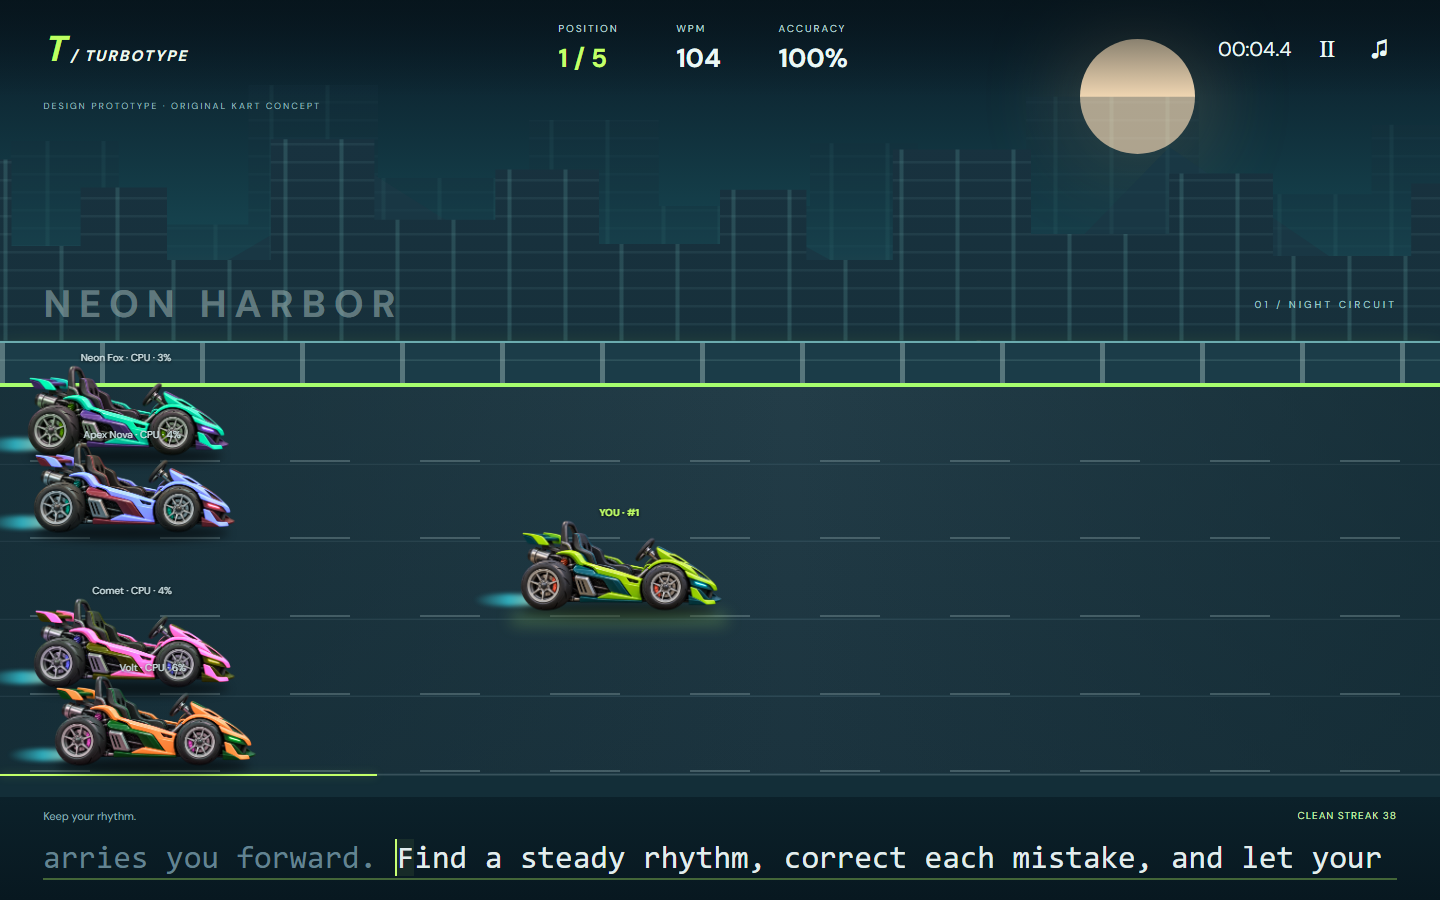
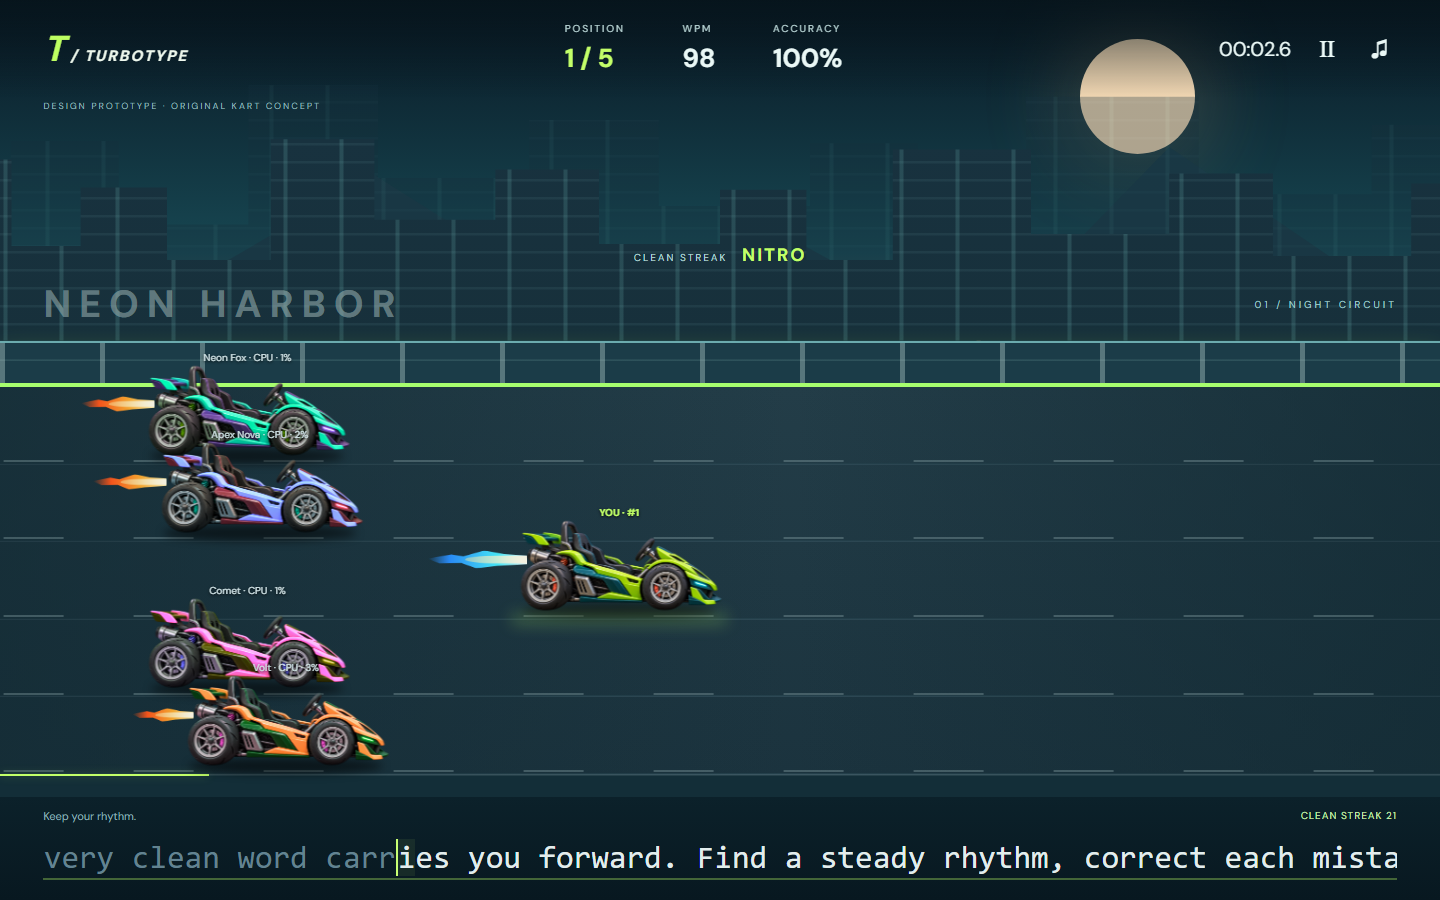
Animate kart exhaust and record the approved direction

diff --git a/docs/design/race-direction/preview.css b/docs/design/race-direction/preview.css
@@ -291,23 +291,72 @@ button {
 }
 .car .flame {
   position: absolute;
-  left: -18%;
-  bottom: 12%;
-  width: 33%;
-  height: 12%;
-  border-radius: 80%;
-  background: linear-gradient(90deg, transparent, #39e0f1, #eaffd9);
-  filter: blur(2px);
+  right: 93%;
+  top: 36%;
+  width: 36%;
+  height: 15%;
+  pointer-events: none;
+  background: linear-gradient(
+    90deg,
+    #f8511d00,
+    #ff571b 25%,
+    #ffae31 66%,
+    #fff3b0
+  );
+  clip-path: polygon(
+    0 45%,
+    24% 22%,
+    36% 33%,
+    57% 0,
+    77% 20%,
+    100% 28%,
+    100% 76%,
+    70% 86%,
+    49% 100%,
+    34% 70%,
+    12% 72%
+  );
+  transform-origin: right center;
   opacity: 0;
+  animation: exhaust-flicker 110ms steps(2, end) infinite paused;
 }
-.racing .car .flame {
-  opacity: 0.7;
+.car .flame::after {
+  content: "";
+  position: absolute;
+  inset: 30% 0 30% 38%;
+  background: linear-gradient(90deg, #ffef9c77, #fffceb);
+  border-radius: 70% 0 0 70%;
+}
+.car[data-moving="true"] .flame {
+  opacity: 0.95;
+  animation-play-state: running;
 }
 .nitro .car.player .flame {
-  width: 55%;
-  left: -42%;
-  height: 18%;
-  box-shadow: 0 0 20px #62eaf677;
+  width: 58%;
+  height: 20%;
+  top: 33%;
+  background: linear-gradient(
+    90deg,
+    #2b78ff00,
+    #2b90ff 22%,
+    #48efff 70%,
+    #f2ffff
+  );
+}
+@keyframes exhaust-flicker {
+  0%,
+  100% {
+    transform: scale(0.8, 0.85);
+  }
+  50% {
+    transform: scale(1.12, 1.08);
+  }
+}
+@media (prefers-reduced-motion: reduce) {
+  .car .flame {
+    display: none;
+    animation: none;
+  }
 }
 .car.player::after {
   content: "";

diff --git a/docs/design/race-direction/preview.js b/docs/design/race-direction/preview.js
@@ -15,6 +15,7 @@ let raf,
   disposed = false,
   ready = false,
   lastHudAt = -Infinity;
+const movement = new Map();
 const input = $("input"),
   music = $("music"),
   menu = $("menu"),
@@ -38,6 +39,8 @@ for (const [i, id] of ids.entries()) {
   label.className = "label";
   const flame = document.createElement("span");
   flame.className = "flame";
+  flame.style.animationDelay = `${-i * 37}ms`;
+  flame.setAttribute("aria-hidden", "true");
   const img = document.createElement("img");
   img.src = "./volt-kart-concept.png";
   img.alt = "";
@@ -64,6 +67,7 @@ function createRace() {
       return span;
     }),
   );
+  movement.clear();
   previousState = "";
   lastBurst = 0;
   ready = true;
@@ -128,6 +132,18 @@ function update() {
       (0.43 + Math.sign(gap) * 0.43 * (1 - Math.exp(-Math.abs(gap) * 7)));
     const car = $(`car-${id}`);
     car.style.left = `${Math.max(55, Math.min(width - 55, x))}px`;
+    const previous = movement.get(id);
+    const movedAt =
+      previous && row.progress > previous.progress
+        ? s.elapsedMs
+        : (previous?.movedAt ?? -Infinity);
+    movement.set(id, { progress: row.progress, movedAt });
+    car.dataset.moving = String(
+      s.state === "racing" &&
+        row.progress < 1 &&
+        s.elapsedMs - movedAt < 200 &&
+        (id !== "player" || s.errorCharacter === null),
+    );
     car.querySelector(".label").textContent =
       id === "player"
         ? `YOU · #${row.place}`

diff --git a/PROJECT_STATUS.md b/PROJECT_STATUS.md
@@ -6,9 +6,9 @@ Last reviewed: 21 October 2026. This file is the persistent status source for fu
 
 ## Current position
 
-**Phases 1–4: complete for their agreed scopes, with documented release-test exceptions. Phase 5: initial implementation automatically verified, but the user rejected its visual/interaction direction on 21 October. Required production race redesign remains TT-507–513. A separate playable TT-507 review prototype and one original AI-generated kart concept now exist; neither the visual direction nor replacement production race is accepted yet.** Current branch `feat/race-polish` starts from main `c4127c7` after merging verified Phase 4 PR #3. It adds three original modern sports-car bodies, the layered Neon Harbor circuit, progress-relative camera/edge indicators, bounded motion/finish effects, scrolling passage and original optional menu/race synth audio with saved controls. Implementation `cdd8e4a` is pushed in [PR #4](https://github.com/sahilshah2904/TurboType/pull/4); local checks and hosted Linux [run 39451394088](https://github.com/sahilshah2904/TurboType/actions/runs/39451394088) pass with 83 unit tests and 66 Chromium browser tests. PR #4 stays open for required visual/input rework and subsequent device acceptance; the 83/66 checks certify the initial implementation, not the planned redesign. The isolated software-renderer profile is documented, not a physical-device 60 fps certification.
+**Phases 1–4: complete for their agreed scopes, with documented release-test exceptions. Phase 5: initial implementation automatically verified, but the user rejected its visual/interaction direction on 21 October. Required production race redesign remains TT-507–513. The user accepted the separate full-window TT-507 kart design on 21 October. Animated moving-only exhaust has been added to that prototype. TT-507 direction review is complete; production integration, distinct fleet, physical-device verification and Phase 5 acceptance remain open.** Current branch `feat/race-polish` starts from main `c4127c7` after merging verified Phase 4 PR #3. It adds three original modern sports-car bodies, the layered Neon Harbor circuit, progress-relative camera/edge indicators, bounded motion/finish effects, scrolling passage and original optional menu/race synth audio with saved controls. Implementation `cdd8e4a` is pushed in [PR #4](https://github.com/sahilshah2904/TurboType/pull/4); local checks and hosted Linux [run 39451394088](https://github.com/sahilshah2904/TurboType/actions/runs/39451394088) pass with 83 unit tests and 66 Chromium browser tests. PR #4 stays open for required visual/input rework and subsequent device acceptance; the 83/66 checks certify the initial implementation, not the planned redesign. The isolated software-renderer profile is documented, not a physical-device 60 fps certification.
 
-First review the [desktop/phone kart prototype](docs/design/race-direction/README.md) under [the race redesign plan](docs/RACE_REDESIGN.md), then implement the accepted direction in the production Phaser race. The review prototype already demonstrates one visible native-input-backed strip and uses existing SoloRace rules; it does not replace the normal Race route. After that revision, rerun ASUS/Samsung visual, sound, keyboard and performance acceptance; the existing device checklist must be updated to match. Physical iPhone/tablet and missing environment metadata remain TT-1008. Cinematic opening/onboarding, campaign content, cloud progression and public deployment are later phases; no backend or Pages release exists.
+Implement the accepted [desktop/phone kart direction](docs/design/race-direction/README.md) in the production Phaser race under [the redesign plan](docs/RACE_REDESIGN.md). The review prototype already demonstrates one visible native-input-backed strip and uses existing SoloRace rules; it does not replace the normal Race route. After that revision, rerun ASUS/Samsung visual, sound, keyboard and performance acceptance; the existing device checklist must be updated to match. Physical iPhone/tablet and missing environment metadata remain TT-1008. Cinematic opening/onboarding, campaign content, cloud progression and public deployment are later phases; no backend or Pages release exists.
 
 “Design baseline complete” means all major systems have defined behavior and a delivery/verification plan. It does not mean every passage is authored, balancing is playtested, every technical detail is fixed, or any feature is implemented. Defaults may change through documented decisions when implementation exposes evidence.
 
@@ -67,6 +67,8 @@ Phases 2–10 may overlap where dependencies require it: for example, save setti
 - Reviewed user recordings 2–4 with overview/detail/quarter-second samples. User rejected the current boxed race, cars and duplicated passage/input. Required Phase 5 rework now includes a full-viewport race, one visible typing strip, a new vehicle-art pass, responsive keyboard-aware composition and staged visual review. See docs/RACE_REDESIGN.md and TT-507–513. This turn documents analysis/proposal only; no replacement gameplay or art is implemented. Phase 6 has not started.
 
 - Started TT-507 with an original lime/teal arcade-kart raster concept (built-in image_gen; prompt/provenance saved) and a separate playable full-viewport desktop/phone review prototype in docs/design/race-direction. It reuses SoloRace/strict input, has one visible typing strip, and offers local-file personal music after the user identified Misirlou. No song file was supplied/downloaded/committed; public game music remains original. Scripted desktop/phone composition, correction/pause/finish/retry and synthetic local-audio tests passed; screenshots are saved. Recolored CPU concepts, simulated phone keyboard and baked wheels are review placeholders. User visual review, real Samsung input, distinct fleet, production integration and actual song playback remain pending. TT-514 tracks local music integration.
+
+- User approved the TT-507 kart/full-window design and requested exhaust flames. Added bounded CSS orange flame flicker and larger blue nitro flame tied to per-car authoritative progress, with stall/error/pause/finish shutoff and system reduced-motion suppression. Updated prototype captures. Other production routes still use the earlier layout; TT-604 now explicitly tracks their coherent full-window redesign in Phase 6, with maps in Phase 7 and garage/progression in Phase 9. This approval does not close production integration or physical-device acceptance.
 
 ## Remaining design and production work
 

diff --git a/docs/RACE_REDESIGN.md b/docs/RACE_REDESIGN.md
@@ -1,6 +1,6 @@
 # Phase 5 race redesign — viewport, typing and vehicle direction
 
-Recorded: 21 October 2026. Status: required rework in progress after user rejection of the current visual result. A separate playable review prototype and one kart concept are available in [design/race-direction](design/race-direction/README.md); the production race has not been replaced or visually accepted. This revises the earlier Phase 5 composition, not the eleven-phase numbering. PR #4 remains open. Existing core rule/test evidence remains valid for its tested snapshot, but is not visual acceptance or verification of this proposed replacement.
+Recorded: 21 October 2026. Status: required rework in progress after user rejection of the current visual result. A separate playable review prototype and one kart concept are available in [design/race-direction](design/race-direction/README.md); the user accepted the prototype visual direction on 21 October, while the production replacement and physical-device acceptance remain outstanding. This revises the earlier Phase 5 composition, not the eleven-phase numbering. PR #4 remains open. Existing core rule/test evidence remains valid for its tested snapshot, but is not visual acceptance or verification of this proposed replacement.
 
 ## Why the current screen needs another pass
 
@@ -42,7 +42,7 @@ User steering: arcade-kart proportions inspired by Mario Kart, with original sil
 
 The existing three SVGs are a functional first pass and are not visually accepted. Create larger, clearly different original silhouettes: a low supercar, a winged track coupe and an aggressive performance hatch/coupe. Specify body proportion, glass, wheel alignment, layered shading, reflective highlights, headlights, rim/caliper detail, tire contact shadows and restrained suspension movement. Changing paint alone is insufficient.
 
-Recommend prerendered 2.5D vehicle sprites for the first redesign: original authored models or appropriately licensed original artwork, with separately aligned wheels, shadows, lights and exhaust. A model/render pipeline can provide consistent angles and lighting without adding a realtime 3D engine to this side-view game. Review one car at actual race size before creating the fleet. Record editable source, rights, export dimensions, wheel anchors and texture/memory budgets. Final asset pipeline and visual direction need a concrete mockup before production; no asset is selected or commissioned yet.
+Recommend prerendered 2.5D vehicle sprites for the first redesign: original authored models or appropriately licensed original artwork, with separately aligned wheels, shadows, lights and exhaust. A model/render pipeline can provide consistent angles and lighting without adding a realtime 3D engine to this side-view game. Review one car at actual race size before creating the fleet. Record editable source, rights, export dimensions, wheel anchors and texture/memory budgets. The first raster kart concept and composition have now been reviewed and approved (TT-507); the production asset pipeline, separate wheel exports and distinct fleet still need implementation.
 
 ### D. Improve race staging and motion
 
@@ -76,6 +76,22 @@ Existing Phase 5 work is retained where useful. No wholesale rewrite of the typi
 - Pure rules remain independent of rendering; shared pause, exact completion, CPU schedules and results survive integration checks.
 - Frame/typing responsiveness, source cleanup, texture budgets, sound balance and retries are verified with actual evidence. Existing 83/66 checks certify their old snapshot only; new checks/results must be recorded after redesign.
 - Final visuals are explicitly accepted before Phase 5 is closed and PR #4 merged. Passing automated tests alone cannot close a rejected design.
+
+## Other pages: coherent full-window direction
+
+These are planned changes, not revamped production pages. The standalone prototype does not change the existing hub, practice, keyboard check or settings.
+
+| Screen | Intended treatment | Phase/task |
+| --- | --- | --- |
+| Active race, pause and results | Edge-to-edge race, compact HUD, one typing strip; integrated pause/finish overlays | Phase 5, TT-508–513 |
+| Opening, welcome, rules and tutorial | Full-window cinematic identity and clear guided interactions | Phase 6, TT-601–604 |
+| Main hub | Animated garage/city environment with navigable activities and Continue | Phase 6, TT-602/604 |
+| Practice / keyboard check | Full-window setting, focused readable input area; practice reuses the integrated strip | Phase 6, TT-604 |
+| Settings / setup | Coherent game background with clearly grouped controls and accessible overlay/full-window navigation | Phase 6, TT-603/604 |
+| Campaign maps | Full-window horizontal landscapes with winding circular stages and no enclosing page card | Phase 7, TT-701–704 |
+| Garage / progress | Matching garage world, vehicle customization and readable learning/progress views | Phase 9 |
+
+Full-window does not mean filling every screen with text or removing useful form boundaries. Keep content readable, distinct control focus, zoom, reduced motion and compact phone layouts. Persistent world/background composition replaces the outer website-card structure. User approval of the race concept is the visual anchor, not proof these other pages are already implemented.
 
 ## Personal music steering
 

diff --git a/docs/design/race-direction/README.md b/docs/design/race-direction/README.md
@@ -1,6 +1,6 @@
 # Immersive kart race — review prototype
 
-Created 21 October 2026 for TT-507 (Phase 5 visual direction). **Review artifact, not the replacement production race.** The normal Race route and its previous Phaser art remain unchanged. The user has not accepted this concept yet.
+Created 21 October 2026 for TT-507 (Phase 5 visual direction). **Review artifact, not the replacement production race.** The normal Race route and its previous Phaser art remain unchanged. The user approved this car/full-window design on 21 October 2026. This accepts TT-507 direction; production integration and physical-device acceptance remain pending.
 
 ## Open and review
 
@@ -18,7 +18,7 @@ Desktop and phone captures are [desktop-preview.png](desktop-preview.png) and [p
 - Reuses src/core/solo-race.ts and src/ui/race-input.ts: one player, four seeded easy CPUs, shared countdown/clock, correction, metrics, pause and final outcomes. Seed 42, one original 145-character review passage; no records/rewards/progress saved.
 - HTML/CSS scenery and DOM vehicle placement are a lightweight direction study, not the final Phaser renderer. Horizontal gaps use a monotonic compressed projection; labels show exact CPU percent and the standings dialog shows authoritative rank/progress. It is not a physical-distance scale. No rubber-banding changes CPU schedules.
 - The new lime kart is one AI-generated raster concept. Other lanes reuse hue-shifted copies to test size/composition. They are **not** a completed distinct fleet. Wheels are baked into this concept; separate rotating wheel/body exports are future production work.
-- CSS skyline/track and simple exhaust demonstrate placement. Final camera, detailed scenery, finish line staging, low/reduced effects settings, polished audio and production integration remain TT-508–513. The prototype does not declare those complete.
+- CSS skyline/track demonstrate placement. Exhaust now uses per-car progress to show orange flickering flames only while advancing, with larger blue player nitro. Flames stop on stall/error/pause/finish and are hidden for system reduced motion; five fixed effect nodes avoid accumulating particles. Final camera, detailed scenery, finish line staging, low/reduced effects settings, polished audio and production integration remain TT-508–513. The prototype does not declare those complete.
 - Uses installed font packages through Vite. Source imports, CSS font paths and review files require the development server. This directory is outside public/ and is not shipped by the current production entry/build.
 - Keyboard layout capture is simulated, browser events are scripted, and observed WPM is synthetic. No physical keyboard, audio mix, fullscreen-browser support or real-device frame-rate certification is claimed. Actual Samsung viewport/panning behavior remains to be tested.
 
@@ -41,4 +41,8 @@ Public game music remains the existing original synth score. Any future bundled 
 - Synthetic in-memory WAV selected through the real file input: blob playback succeeded after Start, pause stopped audio, Escape from the settings dialog returned to the paused menu, and there were zero non-GET requests. The synthetic test recording was not saved or committed. Actual Misirlou audio was not tested.
 - Prettier formatted HTML/CSS/JS. Production app code/dependencies/rules were not modified, so prior 83-unit/66-browser evidence remains historical for that app snapshot; it is not a full new prototype test-suite run.
 
-Next: review the car at actual size and both compositions, then implement the accepted direction in the production Phaser race, build a distinct fleet, refresh formal regression coverage and test on actual devices. TT-507 remains open until review; Phase 5 is not complete.
+Next: review the car at actual size and both compositions, then implement the accepted direction in the production Phaser race, build a distinct fleet, refresh formal regression coverage and test on actual devices. TT-507 direction review is complete by user approval; Phase 5 is not complete.
+
+## Exhaust follow-up verification
+
+Scripted Chromium checks passed for pre-GO suppression, movement-triggered animation, stalled/error shutoff, shared pause shutoff and reduced-motion suppression; desktop/phone captures refreshed. Five fixed flame nodes remain after play. No page errors or phone horizontal overflow were observed. Flames do not change progress, CPU pace or results. This verifies the prototype, not final Phaser effects or actual-device performance.

diff --git a/BACKLOG.md b/BACKLOG.md
@@ -56,7 +56,7 @@ Initial implementation evidence for TT-501–504 (not final visual acceptance; T
 
 Required redesign added after review of recordings 2–4 and user rejection of current visuals/input, 21 October 2026. [Detailed evidence and proposal](docs/RACE_REDESIGN.md). These are future tasks, not shipped features.
 
-- [ ] TT-507: A playable full-window desktop/phone review artifact and one AI-generated kart concept now exist in docs/design/race-direction (prompt, screenshots and validation documented). User visual acceptance is pending; normal Race is unchanged. Review a concrete full-viewport desktop mockup, phone-with-keyboard mockup and one new car concept at actual race size before producing the replacement fleet/layout.
+- [x] TT-507: User approved the full-window kart design on 21 October ("yes this design is very good"). Playable desktop/phone review artifact, car concept, prompt/provenance and captures are in docs/design/race-direction. Requested moving exhaust is implemented/checked in the prototype. This is direction approval only: normal Race integration, distinct fleet and physical-device acceptance remain TT-508–513/505/506.
 - [ ] TT-508: Implement edge-to-edge active racing without outer card, fixed width cap, page gutters or large navigation/footer. Move setup/secondary controls to pre-race/pause screens, use a compact upper HUD, and support optional user-initiated fullscreen with harmless refusal.
 - [ ] TT-509: Replace separate passage/answer box with one visible integrated typing strip backed by a real accessible native input. Preserve correction, prediction/composition policy, focus, pause, timing, larger text and Samsung keyboard behavior; verify before expanding effects.
 - [ ] TT-510: Produce and review a distinctly improved original/appropriately licensed vehicle fleet with consistent proportions, depth/shading, glass, wheels/lights/shadows and editable source/export/anchor/provenance records. Prefer a prerendered 2.5D pipeline after concept review; no final assets/pipeline selected yet.
@@ -71,6 +71,8 @@ Required redesign added after review of recordings 2–4 and user rejection of c
 - [ ] TT-601: Build original cinematic loading panels, real asset status, optional skip/replay, returning-user shortcut and failed-load recovery.
 - [ ] TT-602: Build welcome/rules, interactive correction/streak tutorial, optional calibration and animated hub.
 - [ ] TT-603: Complete responsive setup/briefing/settings/results navigation with touch, keyboard and accessibility support; test first and returning visits. Present passage/pace/mode naturally for Quick Race, use level-defined campaign setup, and move seed into Advanced/Replay settings for the final player flow.
+
+- [ ] TT-604: Apply the accepted immersive visual language across existing hub, practice, keyboard check, settings and pre-race navigation: full-window background, no enclosing page card/unused gutters, readable responsive content and accessible focus/zoom/reduced-motion. Hub becomes a garage/city scene; practice keeps one visible typing surface; settings use a clear overlay/dedicated full-window view. These routes have not yet been revamped. Maps are TT-701–704, race/results TT-508–513, and final garage/progress views belong to Phase 9.
 
 ## Phase 7 — campaign maps
 
